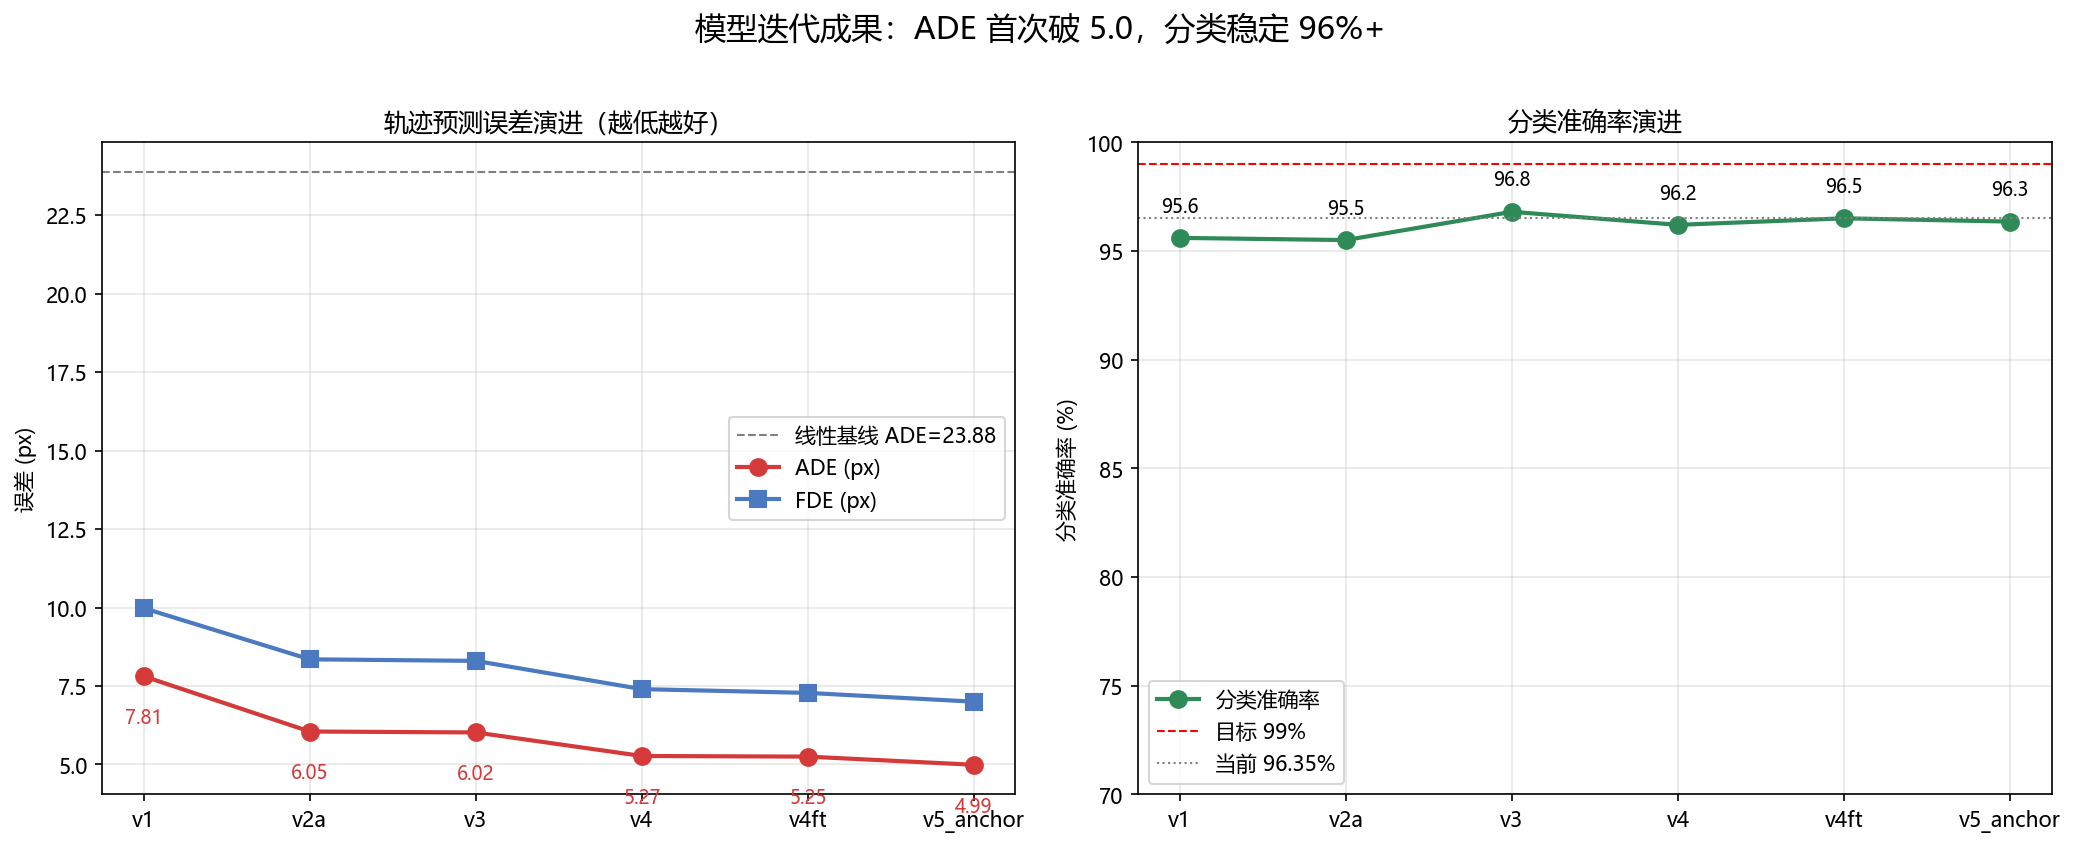
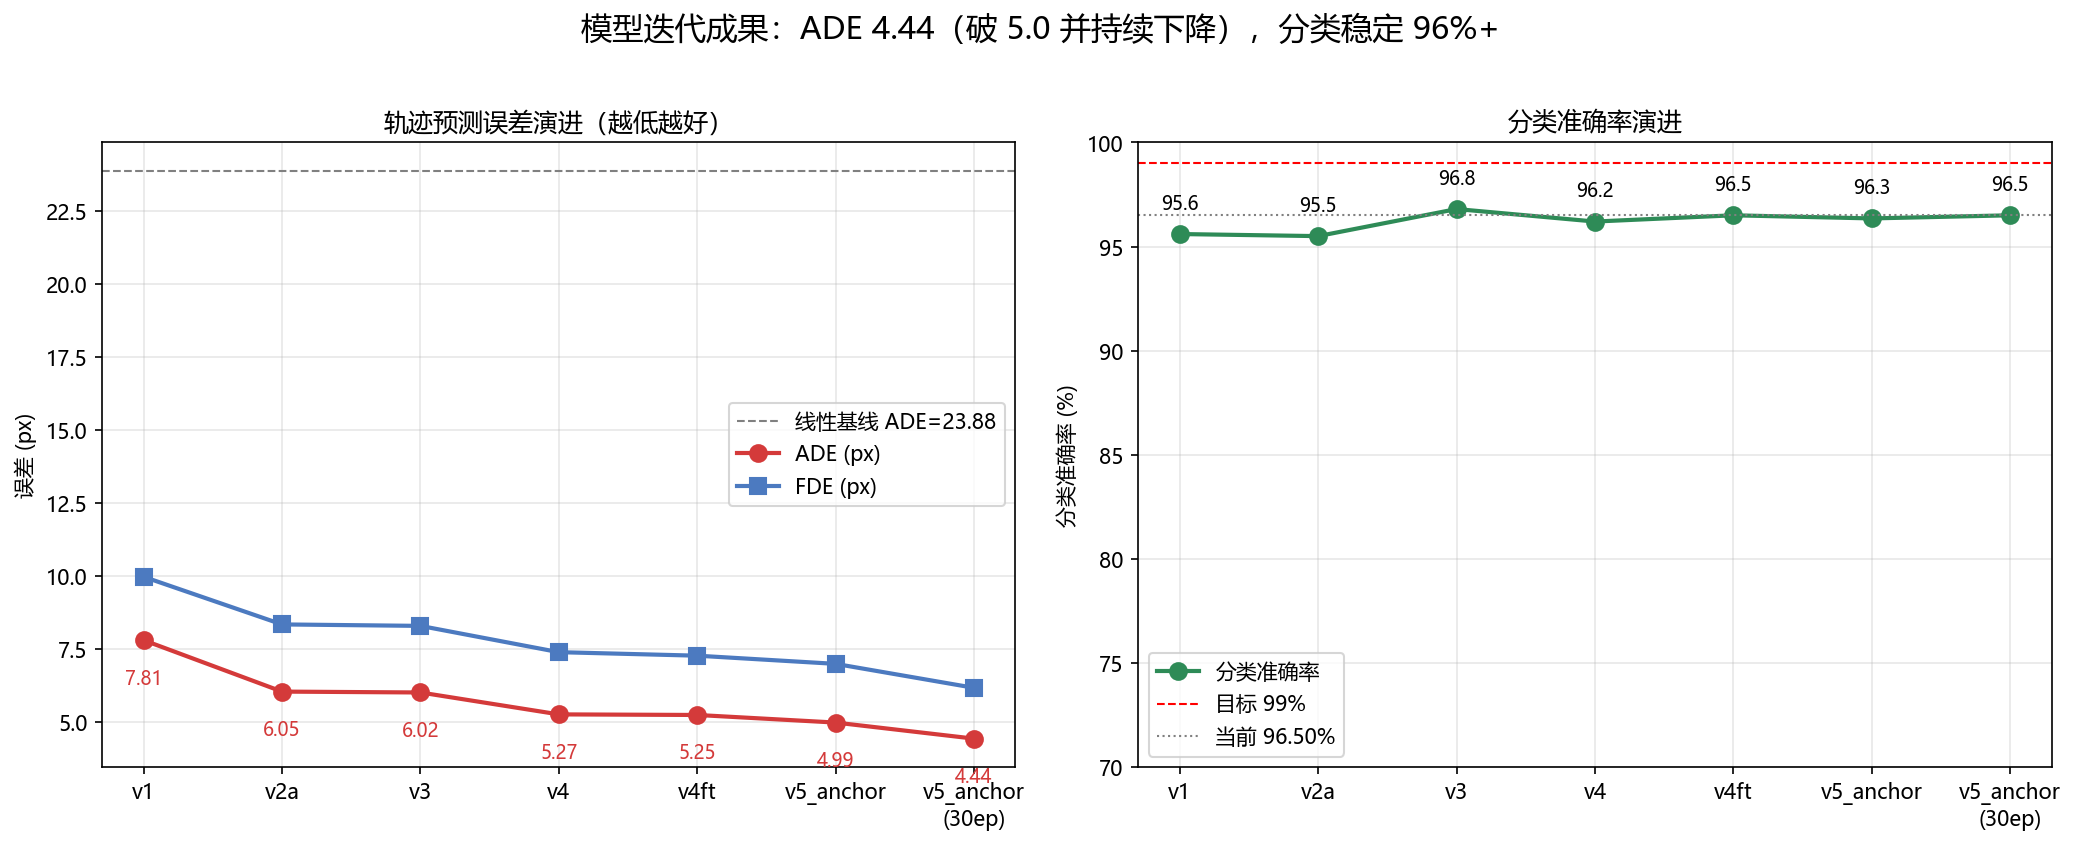
更新汇报材料至 v5_anchor 30ep 成果(ADE 4.44)
- 指标更新: ADE 4.99→4.44, FDE 7.00→6.18, 分类 96.35%→96.50%, 交换率 31.0%→25.6%
- 新增步骤5(加长训练30ep+select=ade), 劣势/交换率/checkpoint路径同步更新
- report_progress.png 增加 30ep 数据点, report_traj.png 用最新权重重绘

diff --git a/report_visuals.py b/report_visuals.py
@@ -28,7 +28,7 @@ import matplotlib.pyplot as plt
 matplotlib.rcParams["font.sans-serif"] = ["Microsoft YaHei", "SimHei", "DejaVu Sans"]
 matplotlib.rcParams["axes.unicode_minus"] = False
 
-CKPT_PATH = r"D:\MovingMNIST\checkpoints\convlstm_v5_anchor_best.pth"
+CKPT_PATH = r"D:\MovingMNIST\checkpoints\convlstm_v5_anchor_30ep_best.pth"
 DATA_ROOT = r"D:\MovingMNIST\dataset\data"
 FIG_DIR = r"D:\MovingMNIST\results\figs"
 TEST_SEED = 2026
@@ -67,7 +67,7 @@ def report_traj(model, device):
         labels, centers = sort_slots(labels, centers)
         with torch.amp.autocast("cuda", enabled=(device.type == "cuda")):
             obs_centers = centers[:, :N_INPUT] / CANVAS
-            logits, traj, _ = model(video[:, :N_INPUT], obs_centers)
+            logits, traj, _, _ = model(video[:, :N_INPUT], obs_centers)
         pred = (traj[0, 1:].detach().float() * CANVAS).cpu().numpy()   # (F,N,2)
         centers = centers[0].cpu().numpy()
         video_np = video[0].cpu().numpy()
@@ -102,15 +102,15 @@ def report_traj(model, device):
 
 def report_progress():
     """图2: 各版本指标进步曲线."""
-    versions = ["v1", "v2a", "v3", "v4", "v4ft", "v5_anchor"]
-    ade = [7.81, 6.05, 6.02, 5.27, 5.25, 4.99]
-    fde = [9.98, 8.35, 8.30, 7.40, 7.28, 7.00]
-    acc = [95.6, 95.5, 96.8, 96.2, 96.5, 96.35]
+    versions = ["v1", "v2a", "v3", "v4", "v4ft", "v5_anchor", "v5_anchor\n(30ep)"]
+    ade = [7.81, 6.05, 6.02, 5.27, 5.25, 4.99, 4.44]
+    fde = [9.98, 8.35, 8.30, 7.40, 7.28, 7.00, 6.18]
+    acc = [95.6, 95.5, 96.8, 96.2, 96.5, 96.35, 96.50]
     baseline_ade = 23.88
 
     fig, axes = plt.subplots(1, 2, figsize=(14, 5.5))
     x = np.arange(len(versions))
-    colors = ["#b0b0b0", "#b0b0b0", "#7aa0d0", "#7aa0d0", "#4c7ac0", "#d43a3a"]
+    colors = ["#b0b0b0", "#b0b0b0", "#7aa0d0", "#7aa0d0", "#4c7ac0", "#d43a3a", "#a01818"]
 
     ax = axes[0]
     ax.axhline(baseline_ade, color="gray", ls="--", lw=1, label=f"线性基线 ADE={baseline_ade}")
@@ -128,7 +128,7 @@ def report_progress():
     ax = axes[1]
     ax.plot(x, acc, "o-", color="#2e8b57", lw=2, ms=8, label="分类准确率")
     ax.axhline(99.0, color="red", ls="--", lw=1, label="目标 99%")
-    ax.axhline(96.5, color="gray", ls=":", lw=1, label="当前 96.35%")
+    ax.axhline(96.5, color="gray", ls=":", lw=1, label="当前 96.50%")
     ax.set_xticks(x)
     ax.set_xticklabels(versions)
     ax.set_ylabel("分类准确率 (%)")
@@ -139,7 +139,7 @@ def report_progress():
     for xi, v in zip(x, acc):
         ax.text(xi, v + 1.2, f"{v:.1f}", ha="center", fontsize=9)
 
-    fig.suptitle("模型迭代成果：ADE 首次破 5.0，分类稳定 96%+", fontsize=15, y=1.02)
+    fig.suptitle("模型迭代成果：ADE 4.44（破 5.0 并持续下降），分类稳定 96%+", fontsize=15, y=1.02)
     fig.tight_layout()
     p = os.path.join(FIG_DIR, "report_progress.png")
     fig.savefig(p, dpi=150, bbox_inches="tight")

diff --git a/技术汇报材料.md b/技术汇报材料.md
@@ -14,7 +14,7 @@
 
 ### 1.2 总体架构：共享时空编码器 + 双任务头
 
-模型名为 **v5_anchor**（22.7M 参数），由三部分组成：
+模型名为 **v5_anchor**（22.7M 参数，加长训练 30 epoch 后达到当前最优），由三部分组成：
 
 ```
 输入视频(10帧) 
@@ -57,8 +57,8 @@
 4. **推理自洽、可部署**——身份锚用观测段位置（推理时输入视频即可得），不需要未来真值。
 
 **劣势**：
-1. **分类精度有天花板（96.35% vs 目标 99%）**——GAP 全局池化在深度重叠时无法区分两数字身份，这是架构上限，已两次证伪「取样式分类头」的替代方案；
-2. **槽位交换仍存在（31%）**——身份锚缓解但未根治，深度重叠仍是硬伤；
+1. **分类精度有天花板（96.50% vs 目标 99%）**——GAP 全局池化在深度重叠时无法区分两数字身份，这是架构上限，已两次证伪「取样式分类头」的替代方案；
+2. **槽位交换仍存在（25.6%）**——身份锚缓解但未根治，深度重叠仍是硬伤；
 3. **自回归解码误差累积**——free-running 模式每步喂自己的预测，误差会随步数放大；
 4. **参数量偏大（22.7M）**——对嵌入式实时推理是压力，需量化压缩。
 
@@ -87,13 +87,14 @@
 | 步骤1 | CNN 单帧分类基线 | ✅ 99.76% |
 | 步骤2 | 线性匀速外推轨迹基线（必须超越的底线） | ✅ ADE 23.88 |
 | 步骤3 | ConvLSTM 多任务主模型（v4ft） | ✅ ADE 5.25 / 分类 96.5% |
-| 步骤4 | **身份锚增强（v5_anchor）** | ✅ **ADE 4.99 / 分类 96.35%** |
+| 步骤4 | **身份锚增强（v5_anchor）** | ✅ ADE 4.99 / 分类 96.35% |
+| 步骤5 | **加长训练（30 epoch + 按 ADE 选优）** | ✅ **ADE 4.44 / 分类 96.50%** |
 
 ### 2.2 能完成什么任务
 
 当前模型能同时完成：
-1. **数字识别**：对画面中 2 个运动数字分别输出类别（0–9），逐数字准确率 96.35%；
-2. **轨迹预测**：预测后 10 帧每个数字的质心运动轨迹，ADE 4.99 px / FDE 7.00 px（画布 64px，误差约为边长的 7.8%）。
+1. **数字识别**：对画面中 2 个运动数字分别输出类别（0–9），逐数字准确率 96.50%；
+2. **轨迹预测**：预测后 10 帧每个数字的质心运动轨迹，ADE 4.44 px / FDE 6.18 px（画布 64px，误差约为边长的 6.9%）。
 
 ### 2.3 指标完成情况
 
@@ -101,16 +102,16 @@
 
 | 指标 | 线性基线 | v4ft | **v5_anchor（当前）** | 目标 |
 |---|---|---|---|---|
-| 轨迹 ADE (px) | 23.88 | 5.25 | **4.99** ✅ 破 5.0 | < 5 |
-| 轨迹 FDE (px) | 41.60 | 7.28 | **7.00** | — |
-| 分类准确率 | 99.76%* | 96.5% | 96.35% | ≥ 99% ⚠ 未达标 |
+| 轨迹 ADE (px) | 23.88 | 5.25 | **4.44** ✅ 破 5.0 | < 5 |
+| 轨迹 FDE (px) | 41.60 | 7.28 | **6.18** | — |
+| 分类准确率 | 99.76%* | 96.5% | 96.50% | ≥ 99% ⚠ 未达标 |
 
 *注：分类基线是单帧静态 CNN（不涉及运动），与多任务模型不可直接比；多任务下分类受深度重叠拖累。
 
 **进步幅度**：
-- 相对线性基线，ADE 降 **79.1%**，FDE 降 **83.2%**；
-- 相对 v4ft 基线，ADE 再降 0.26px（5.25→4.99），**首次突破 5.0 目标线**；
-- 交换率（槽位身份交换）从 32.9% 降至 31.0%。
+- 相对线性基线，ADE 降 **81.4%**，FDE 降 **85.1%**；
+- 相对 v4ft 基线，ADE 再降 0.81px（5.25→4.44），**突破 5.0 目标线并进一步压到 4.44**；
+- 交换率（槽位身份交换）从 32.9% 降至 **25.6%**（累计 -7.3pt）。
 
 ### 2.4 成果可视化
 
@@ -169,7 +170,7 @@
 |---|---|
 | `train_convlstm_v2.py` | 主模型训练脚本（含 v5_anchor 的 `--slot-anchor` 开关） |
 | `moving_mnist.py` | 在线数据合成器 |
-| `checkpoints/convlstm_v5_anchor_best.pth` | 当前最优模型权重 |
+| `checkpoints/convlstm_v5_anchor_30ep_best.pth` | 当前最优模型权重（30 epoch 续训） |
 | `assoc_planB.py` | 方案B 无真值可部署关联（C++ 可移植） |
 | `report_visuals.py` | 汇报可视化生成脚本 |
 | `results/成果报告.md` | 完整技术演进记录 |
